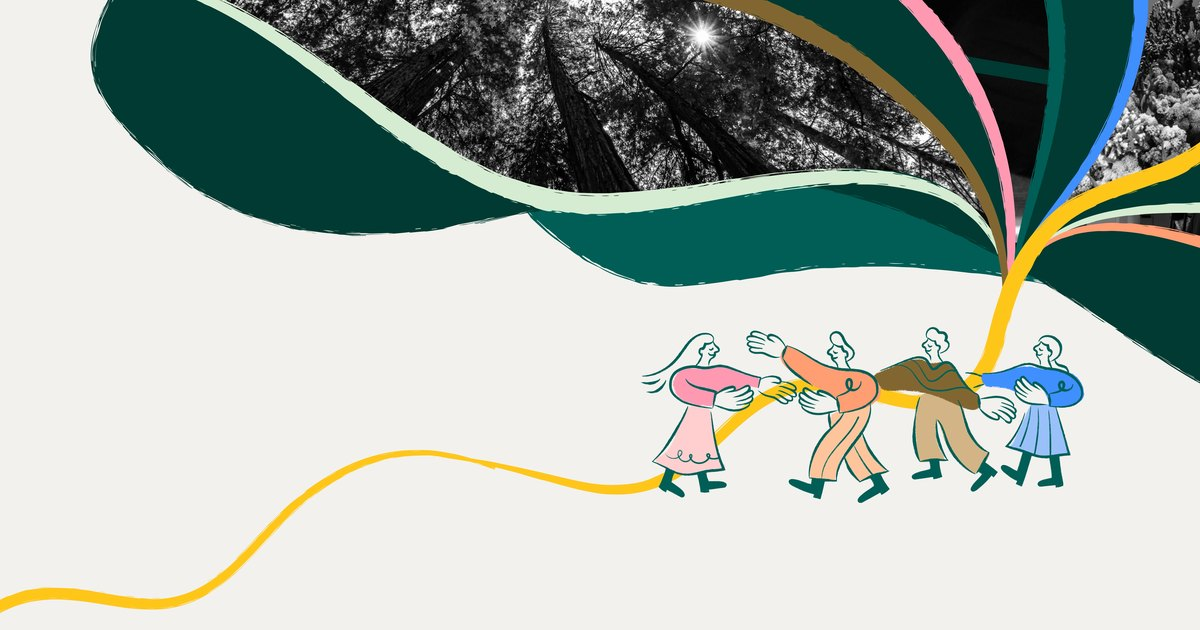
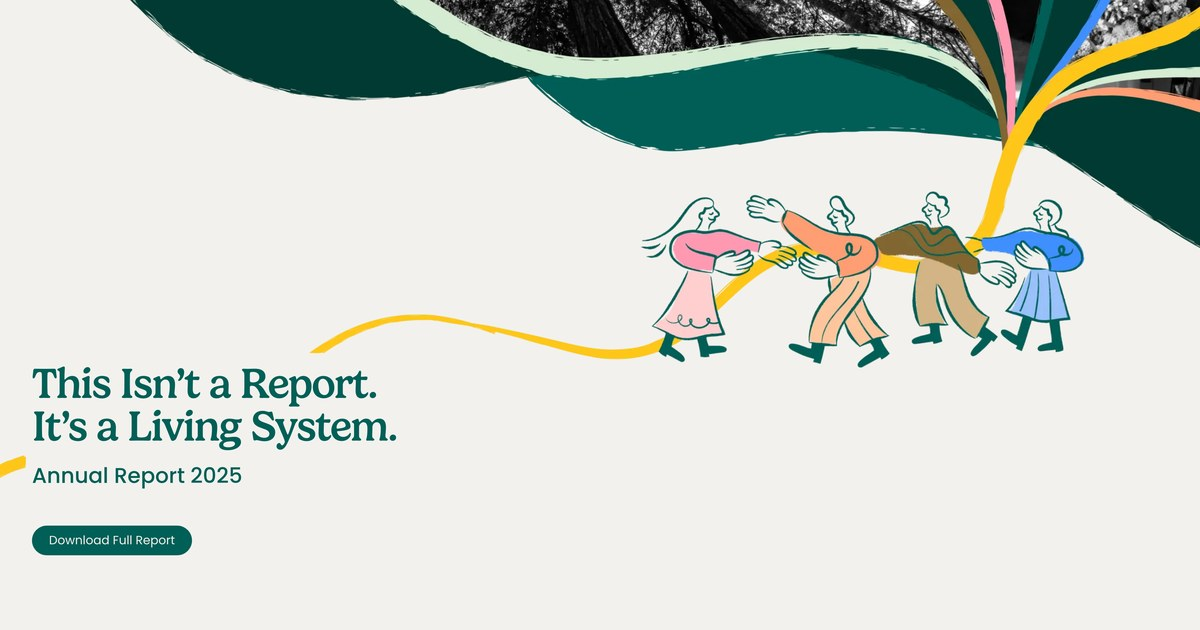
og:image: use the rendered hero instead of the artwork alone
The first version was cropped straight from hero.webp, which is
illustration only — the title lives in HTML, so the card went out with
no words on it and nothing to say what the link was.

Rendered the page in headless Chrome at 1800x1150 (2x) and cropped a
1200x630 window from the lower part of the hero, so the card carries the
real type: "This Isn't a Report. It's a Living System.", the Annual
Report 2025 line and the download button, with the forest canopy above
and all four figures pulling the yellow line. og:image:alt updated to
include the title now that the title is in the picture.

diff --git a/index.html b/index.html
@@ -15,7 +15,7 @@
   <meta content="images/og-image.jpg" property="og:image">
   <meta content="1200" property="og:image:width">
   <meta content="630" property="og:image:height">
-  <meta content="Dark green leaves and a black-and-white forest canopy fan out from a yellow line that four illustrated figures are pulling together." property="og:image:alt">
+  <meta content="ECCA Family Foundation Annual Report 2025, titled This Isn&#x27;t a Report. It&#x27;s a Living System. Dark green leaves and a black-and-white forest canopy fan out above a yellow line that four illustrated figures are pulling together." property="og:image:alt">
   <meta content="images/og-image.jpg" name="twitter:image">
   <meta content="width=device-width, initial-scale=1" name="viewport">
   <link rel="preload" as="image" href="images/hero-1280.webp" imagesrcset="images/hero-640.webp 640w, images/hero-960.webp 960w, images/hero-1280.webp 1280w, images/hero-1600.webp 1600w, images/hero-2000.webp 2000w, images/hero-2560.webp 2560w" imagesizes="100vw" fetchpriority="high">